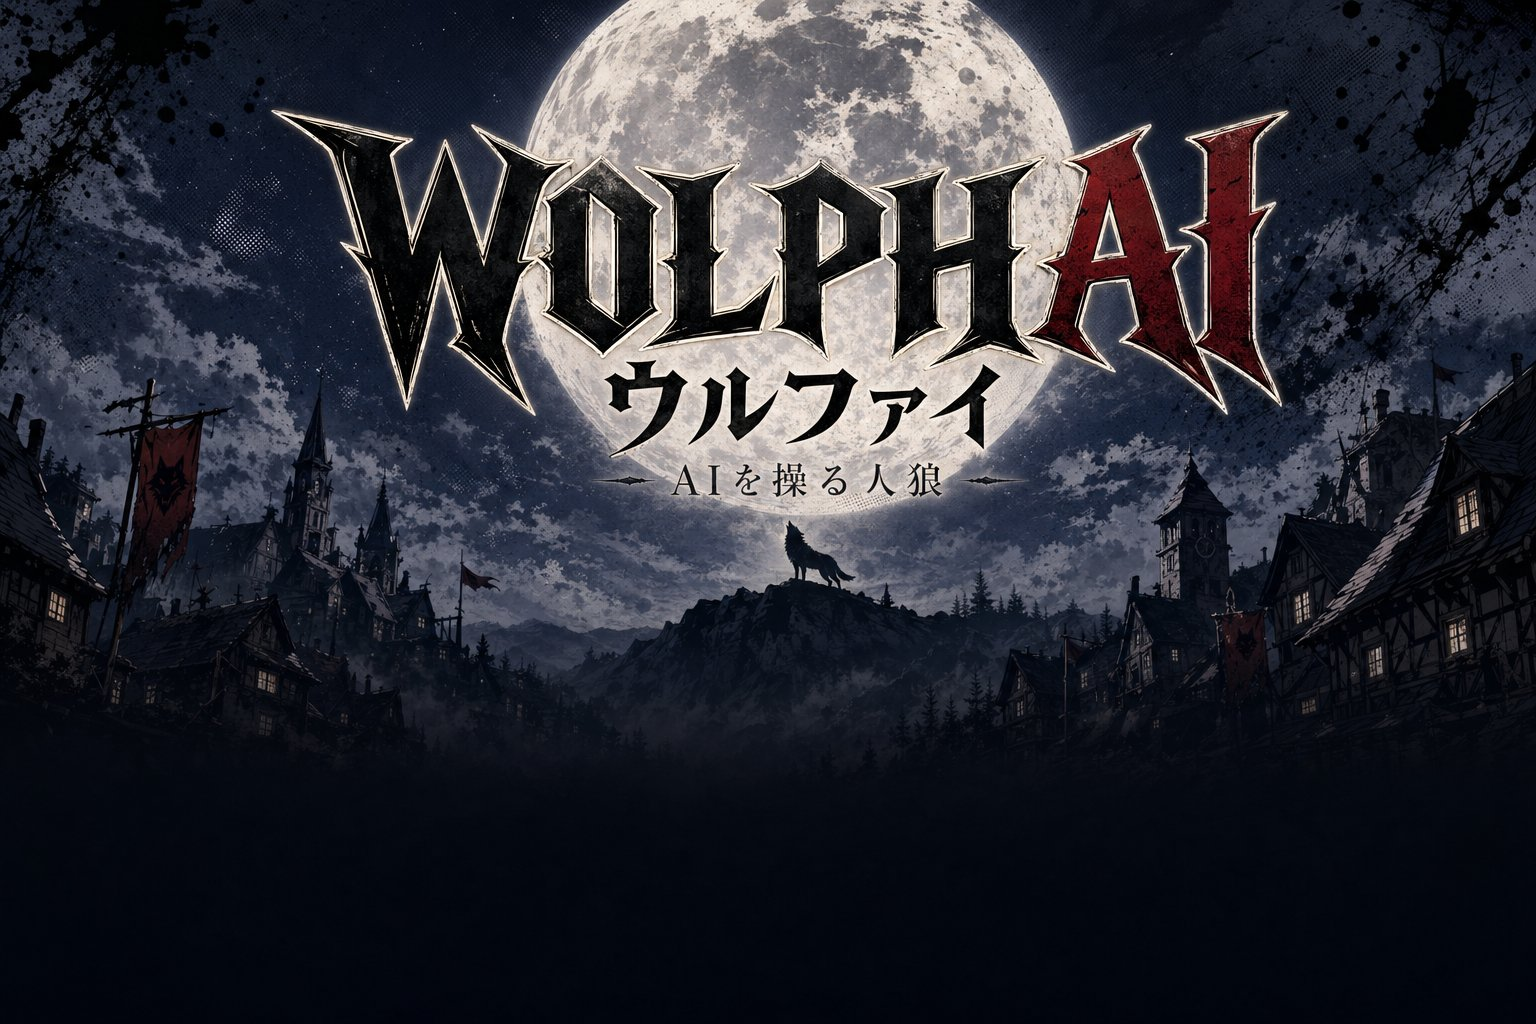
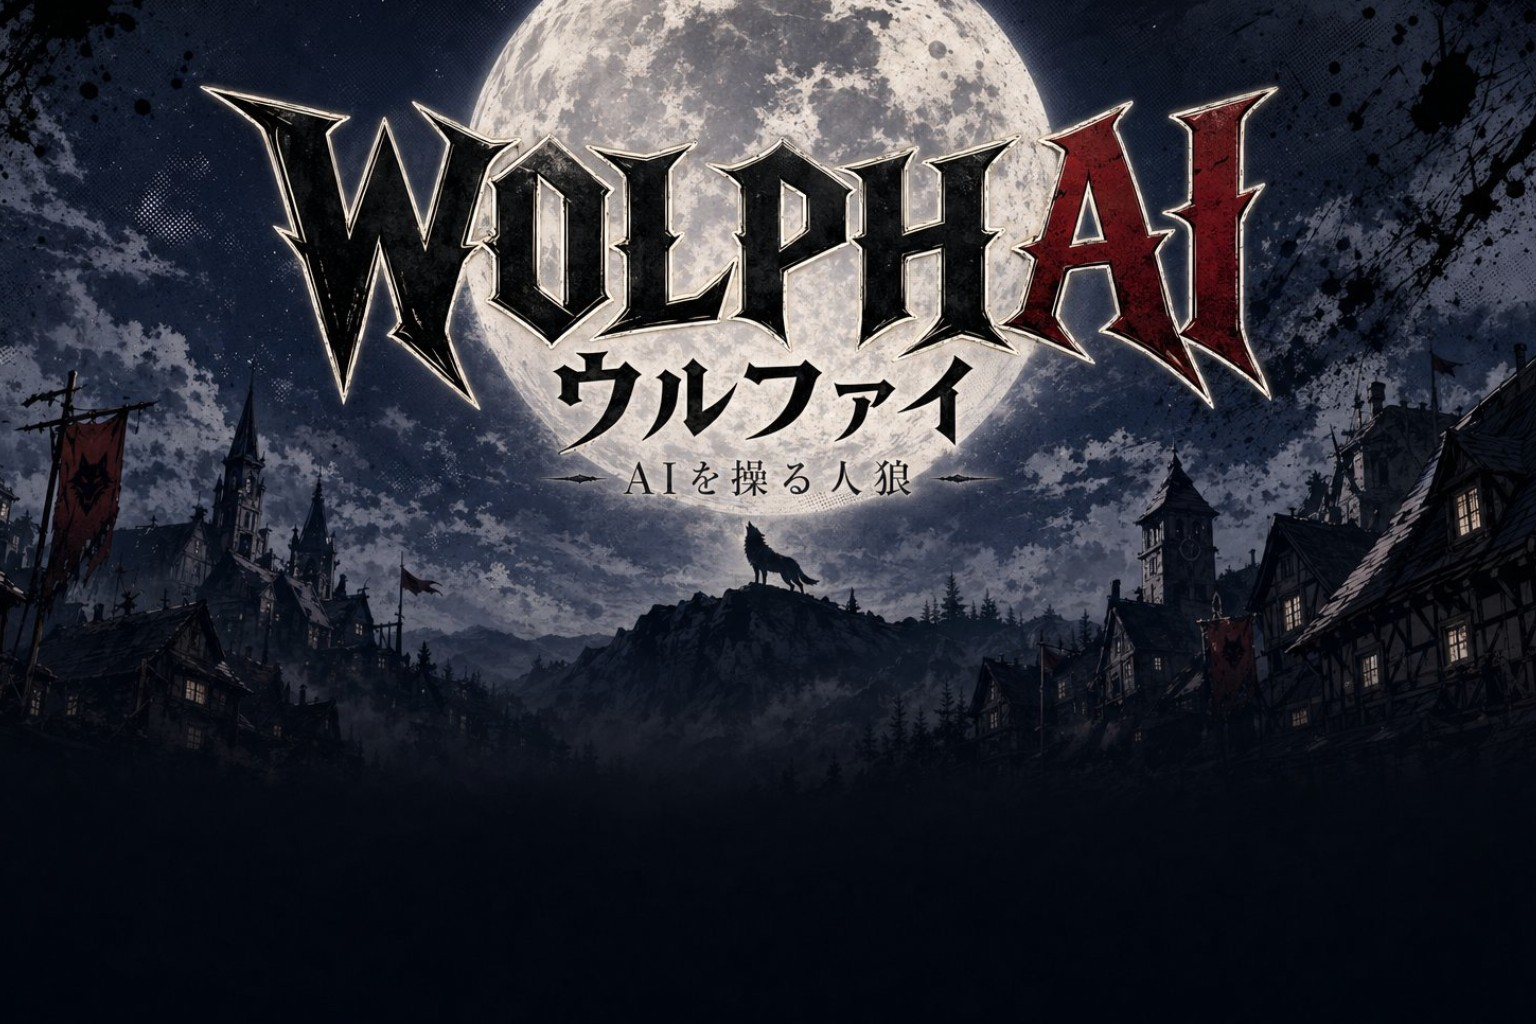
ver17

diff --git a/css/main.css b/css/main.css
@@ -71,9 +71,10 @@ body:has([data-screen="title"]:not([hidden])) .bg-overlay {
   background-image:
     linear-gradient(180deg, rgba(10, 6, 18, 0.0) 0%, rgba(10, 6, 18, 0.85) 100%),
     url('../assets/images/scenes/title.jpg');
-  background-position: top center;
+  background-position: center -8%;
 }
-body:has([data-screen="mode"]:not([hidden])) .bg-overlay {
+body:has([data-screen="mode"]:not([hidden])) .bg-overlay,
+body:has([data-screen="room"]:not([hidden])) .bg-overlay {
   background-image:
     linear-gradient(180deg, rgba(10, 6, 18, 0.55) 0%, rgba(10, 6, 18, 0.92) 100%),
     url('../assets/images/scenes/mode-select.jpg');
@@ -444,6 +445,11 @@ textarea { resize: vertical; min-height: 60px; }
     radial-gradient(circle at center, var(--color-accent-dark) 0%, var(--color-bg-alt) 70%),
     var(--color-bg-alt);
   color: var(--color-gold);
+  transition: visibility 0s linear 0s;
+}
+.role-card.flipped .role-card-back {
+  visibility: hidden;
+  transition: visibility 0s linear 0.45s;
 }
 .role-card-back::before {
   content: '月'; font-size: 100px; font-weight: 400;
@@ -492,6 +498,18 @@ textarea { resize: vertical; min-height: 60px; }
   display: none; text-align: center;
 }
 .role-reveal:has(.role-card.flipped) .role-info-below { display: block; }
+@keyframes roleInfoFadeIn {
+  0%   { opacity: 0; transform: translateY(8px); }
+  100% { opacity: 1; transform: translateY(0); }
+}
+@keyframes roleInfoGlow {
+  0%, 100% { box-shadow: 0 0 0 rgba(155, 109, 211, 0); }
+  50%      { box-shadow: 0 0 18px rgba(155, 109, 211, 0.35); }
+}
+.role-reveal:has(.role-card.flipped) .role-info-below .role-description,
+.role-reveal:has(.role-card.flipped) .role-info-below .role-teammates {
+  animation: roleInfoFadeIn 0.55s ease 0.45s both, roleInfoGlow 3s ease-in-out 1s infinite;
+}
 .role-info-below .role-description {
   font-size: 14px; color: var(--color-text);
   line-height: 1.6; padding: 12px 16px;
@@ -526,6 +544,170 @@ textarea { resize: vertical; min-height: 60px; }
 .event-image.fortune-black{ background-image: url('../assets/images/events/fortune-black.jpg'); border-color: var(--color-blood); }
 .event-image.medium-white { background-image: url('../assets/images/events/medium-white.jpg'); border-color: var(--color-gold-dim); }
 .event-image.medium-black { background-image: url('../assets/images/events/medium-black.jpg'); border-color: var(--color-blood); }
+
+/* ============ Event Overlay (cinematic transitions) ============ */
+.event-overlay {
+  position: fixed; inset: 0; z-index: 1000;
+  display: flex; align-items: center; justify-content: center;
+  background: rgba(0, 0, 0, 0); pointer-events: none; opacity: 0;
+}
+.event-overlay[hidden] { display: none; }
+.event-overlay.active {
+  pointer-events: auto;
+  animation: eventOverlayFade var(--ev-dur, 2s) ease forwards;
+}
+@keyframes eventOverlayFade {
+  0%   { opacity: 0; background: rgba(0, 0, 0, 0); }
+  12%  { opacity: 1; background: rgba(0, 0, 0, 0.88); }
+  85%  { opacity: 1; background: rgba(0, 0, 0, 0.88); }
+  100% { opacity: 0; background: rgba(0, 0, 0, 0); }
+}
+.event-overlay-img {
+  width: 60vmin; max-width: 480px; aspect-ratio: 1 / 1;
+  background-size: cover; background-position: center;
+  border-radius: 16px;
+  box-shadow: 0 0 80px rgba(0, 0, 0, 0.95), 0 12px 40px rgba(0, 0, 0, 0.7);
+  position: relative;
+}
+.event-overlay-img.attack       { background-image: url('../assets/images/events/attack.jpg'); }
+.event-overlay-img.guard        { background-image: url('../assets/images/events/guard-success.jpg'); }
+.event-overlay-img.execution    { background-image: url('../assets/images/events/execution.jpg'); }
+.event-overlay-img.fortune-white{ background-image: url('../assets/images/events/fortune-white.jpg'); }
+.event-overlay-img.fortune-black{ background-image: url('../assets/images/events/fortune-black.jpg'); }
+.event-overlay-img.medium-white { background-image: url('../assets/images/events/medium-white.jpg'); }
+.event-overlay-img.medium-black { background-image: url('../assets/images/events/medium-black.jpg'); }
+
+@keyframes eventEntryBase {
+  0%   { transform: scale(0.6); opacity: 0; }
+  18%  { transform: scale(1.06); opacity: 1; }
+  28%  { transform: scale(1); }
+  82%  { transform: scale(1); opacity: 1; }
+  100% { transform: scale(0.96); opacity: 0; }
+}
+@keyframes eventShake {
+  0%, 100% { translate: 0 0; }
+  20% { translate: -8px 3px; }
+  40% { translate: 6px -4px; }
+  60% { translate: -5px 5px; }
+  80% { translate: 4px -3px; }
+}
+@keyframes eventRotate {
+  0%   { transform: scale(0.5) rotate(-180deg); opacity: 0; }
+  28%  { transform: scale(1.05) rotate(0deg); opacity: 1; }
+  35%  { transform: scale(1) rotate(0deg); }
+  82%  { transform: scale(1) rotate(0deg); opacity: 1; }
+  100% { transform: scale(0.95) rotate(0deg); opacity: 0; }
+}
+@keyframes eventRise {
+  0%   { transform: translateY(60px) scale(0.7); opacity: 0; }
+  28%  { transform: translateY(0) scale(1); opacity: 1; }
+  82%  { transform: translateY(0) scale(1); opacity: 1; }
+  100% { transform: translateY(-30px) scale(1); opacity: 0; }
+}
+@keyframes eventGlowPulse {
+  0%, 100% { filter: drop-shadow(0 0 12px rgba(224, 200, 136, 0.4)); }
+  50%      { filter: drop-shadow(0 0 50px rgba(224, 200, 136, 0.85)); }
+}
+@keyframes eventFlash {
+  0%, 4%, 100% { opacity: 0; }
+  6% { opacity: 0.92; }
+  14% { opacity: 0; }
+}
+@keyframes eventSmokeRise {
+  0%   { opacity: 0; transform: translateY(40px) scale(0.7); }
+  30%  { opacity: 0.9; transform: translateY(0) scale(1); }
+  100% { opacity: 0; transform: translateY(-60px) scale(1.4); }
+}
+
+/* default entry */
+.event-overlay.active .event-overlay-img {
+  animation: eventEntryBase var(--ev-dur, 2s) ease forwards;
+}
+
+/* attack: shake + red glow */
+.event-overlay.active.ev-attack { --ev-dur: 2s; }
+.event-overlay.active.ev-attack .event-overlay-img {
+  animation:
+    eventEntryBase 2s ease forwards,
+    eventShake 0.45s ease 0.5s 3;
+  filter: drop-shadow(0 0 36px rgba(169, 50, 50, 0.85));
+}
+
+/* guard: golden halo pulse */
+.event-overlay.active.ev-guard { --ev-dur: 1.8s; }
+.event-overlay.active.ev-guard .event-overlay-img {
+  animation:
+    eventEntryBase 1.8s ease forwards,
+    eventGlowPulse 1.6s ease-in-out 0.2s;
+}
+.event-overlay.active.ev-guard::before {
+  content: ''; position: absolute; inset: 0;
+  background: radial-gradient(circle at center, rgba(224, 200, 136, 0.32), transparent 55%);
+  animation: eventEntryBase 1.8s ease forwards;
+  pointer-events: none;
+}
+
+/* fortune-white: gentle rotation + soft halo */
+.event-overlay.active.ev-fortune-white { --ev-dur: 2.2s; }
+.event-overlay.active.ev-fortune-white .event-overlay-img {
+  animation: eventRotate 2.2s ease forwards;
+  filter: drop-shadow(0 0 44px rgba(236, 228, 212, 0.65));
+}
+
+/* fortune-black: rotation + dark red shake */
+.event-overlay.active.ev-fortune-black { --ev-dur: 2.2s; }
+.event-overlay.active.ev-fortune-black .event-overlay-img {
+  animation:
+    eventRotate 2.2s ease forwards,
+    eventShake 0.32s ease 0.7s 4;
+  filter: drop-shadow(0 0 44px rgba(107, 15, 26, 0.9));
+}
+
+/* medium-white: rise from below + light streak */
+.event-overlay.active.ev-medium-white { --ev-dur: 2s; }
+.event-overlay.active.ev-medium-white .event-overlay-img {
+  animation: eventRise 2s ease forwards;
+  filter: drop-shadow(0 -16px 44px rgba(236, 228, 212, 0.55));
+}
+
+/* medium-black: rise + black smoke */
+.event-overlay.active.ev-medium-black { --ev-dur: 2s; }
+.event-overlay.active.ev-medium-black .event-overlay-img {
+  animation: eventRise 2s ease forwards;
+  filter: drop-shadow(0 16px 44px rgba(0, 0, 0, 0.95));
+}
+.event-overlay.active.ev-medium-black::after {
+  content: ''; position: absolute;
+  bottom: 0; left: 50%; width: 60vmin; height: 50vmin;
+  transform: translateX(-50%);
+  background: radial-gradient(ellipse at bottom, rgba(20, 0, 10, 0.7), transparent 65%);
+  animation: eventSmokeRise 2s ease forwards;
+  pointer-events: none;
+}
+
+/* execution: flash + single hard shake */
+.event-overlay.active.ev-execution { --ev-dur: 2.5s; }
+.event-overlay.active.ev-execution .event-overlay-img {
+  animation:
+    eventEntryBase 2.5s ease forwards,
+    eventShake 0.22s ease 0.55s 1;
+  filter: drop-shadow(0 0 36px rgba(0, 0, 0, 0.95));
+}
+.event-overlay.active.ev-execution::before {
+  content: ''; position: fixed; inset: 0;
+  background: white; opacity: 0;
+  animation: eventFlash 2.5s ease forwards;
+  pointer-events: none;
+}
+
+@media (prefers-reduced-motion: reduce) {
+  .event-overlay.active,
+  .event-overlay.active .event-overlay-img,
+  .event-overlay.active::before,
+  .event-overlay.active::after {
+    animation-duration: 0.4s !important;
+  }
+}
 
 /* ============ Phase Banner ============ */
 .phase-banner {

diff --git a/js/main.js b/js/main.js
@@ -43,6 +43,34 @@
     window.scrollTo({ top: 0, behavior: 'instant' });
   }
 
+  const EVENT_DURATIONS = {
+    'attack': 2000, 'guard': 1800,
+    'fortune-white': 2200, 'fortune-black': 2200,
+    'medium-white': 2000, 'medium-black': 2000,
+    'execution': 2500
+  };
+  function playEvent(name) {
+    return new Promise((resolve) => {
+      const ov = $('#eventOverlay');
+      if (!ov || !name) { resolve(); return; }
+      if (ui.eventPlayed && ui.eventPlayed[name + '_' + (Game.state.day || 0)]) {
+        resolve(); return;
+      }
+      ui.eventPlayed = ui.eventPlayed || {};
+      ui.eventPlayed[name + '_' + (Game.state.day || 0)] = true;
+      ov.innerHTML = '<div class="event-overlay-img ' + name + '"></div>';
+      ov.className = 'event-overlay active ev-' + name;
+      ov.hidden = false;
+      const dur = EVENT_DURATIONS[name] || 2000;
+      setTimeout(() => {
+        ov.className = 'event-overlay';
+        ov.hidden = true;
+        ov.innerHTML = '';
+        resolve();
+      }, dur);
+    });
+  }
+
   function showLoading(msg, sub) {
     const ov = $('#loadingOverlay');
     if (msg == null) { ov.hidden = true; return; }
@@ -725,6 +753,7 @@
       if (mr.length) {
         const last = mr[mr.length - 1];
         const isWolf = (last.role === 'werewolf');
+        playEvent(isWolf ? 'medium-black' : 'medium-white');
         const evImg = document.createElement('div');
         evImg.className = 'event-image ' + (isWolf ? 'medium-black' : 'medium-white');
         evImg.setAttribute('aria-hidden', 'true');
@@ -778,6 +807,7 @@
   }
 
   function showFortuneResult(fr) {
+    playEvent(fr.isWerewolf ? 'fortune-black' : 'fortune-white');
     const action = $('#nightAction');
     action.innerHTML = '';
     const titleEl = document.createElement('div');
@@ -924,6 +954,7 @@
         <div class="attack-title">— 襲撃 —</div>
         <div class="attack-name">${GD.escapeHtml(hist.attackedName)}</div>
         <div class="attack-desc">人狼に喰い殺された姿で発見された...</div>`;
+      playEvent('attack');
     } else {
       ar.className = 'attack-result peace';
       ar.innerHTML = `
@@ -931,6 +962,7 @@
         <div class="attack-title">— 静寂の朝 —</div>
         <div class="attack-name">誰も亡くならなかった</div>
         <div class="attack-desc">騎士の加護が村を守ったのかもしれない...</div>`;
+      playEvent('guard');
     }
     ui.morningSpeechesShown = 0;
     renderMorningSpeeches();
@@ -1192,6 +1224,7 @@
         <div class="event-image execution" aria-hidden="true"></div>
         <div class="execution-result-label">— 処刑 —</div>
         <div class="execution-result-name">${GD.escapeHtml(data.executedName)}</div>`;
+      playEvent('execution');
     } else {
       result.className = 'execution-result peace';
       result.innerHTML = `

diff --git a/index.html b/index.html
@@ -11,7 +11,7 @@
 <link rel="preconnect" href="https://fonts.googleapis.com">
 <link rel="preconnect" href="https://fonts.gstatic.com" crossorigin>
 <link href="https://fonts.googleapis.com/css2?family=Cinzel:wght@400;600;700&family=Noto+Serif+JP:wght@400;500;700;900&display=swap" rel="stylesheet">
-<link rel="stylesheet" href="css/main.css?v=24">
+<link rel="stylesheet" href="css/main.css?v=26">
 </head>
 <body>
 <div id="app">
@@ -138,10 +138,7 @@
     <p class="screen-subtitle">カードをタップして、あなたの役職を確認</p>
     <div class="role-reveal" id="roleReveal">
       <div class="role-card" id="roleCard" tabindex="0" role="button" aria-label="役職を確認">
-        <div class="role-card-face role-card-back">
-          <div class="role-card-back-label">月夜の啓示</div>
-          <div class="role-card-back-hint">タップで確認</div>
-        </div>
+        <div class="role-card-face role-card-back"></div>
         <div class="role-card-face role-card-front">
           <div class="role-icon" id="roleIcon"></div>
           <div class="role-name" id="roleName"></div>
@@ -285,8 +282,11 @@
     </div>
   </section>
 
+  <!-- ============ Event Overlay (cinematic) ============ -->
+  <div class="event-overlay" id="eventOverlay" hidden aria-hidden="true"></div>
+
   <!-- ============ Loading Overlay ============ -->
-  <div class="overlay" id="loadingOverlay" hidden>
+  <div class="overlay" id="loadingOverlay" hidden
     <div class="overlay-content">
       <div class="spinner" aria-hidden="true"></div>
       <p class="loading-message" id="loadingMessage">読み込み中...</p>
@@ -341,10 +341,10 @@
   window.dispatchEvent(new Event('firebase-ready'));
 </script>
 
-<script src="js/gameData.js?v=24"></script>
-<script src="js/ai.js?v=24"></script>
-<script src="js/firebase.js?v=24"></script>
-<script src="js/game.js?v=24"></script>
-<script src="js/main.js?v=24"></script>
+<script src="js/gameData.js?v=26"></script>
+<script src="js/ai.js?v=26"></script>
+<script src="js/firebase.js?v=26"></script>
+<script src="js/game.js?v=26"></script>
+<script src="js/main.js?v=26"></script>
 </body>
 </html>
